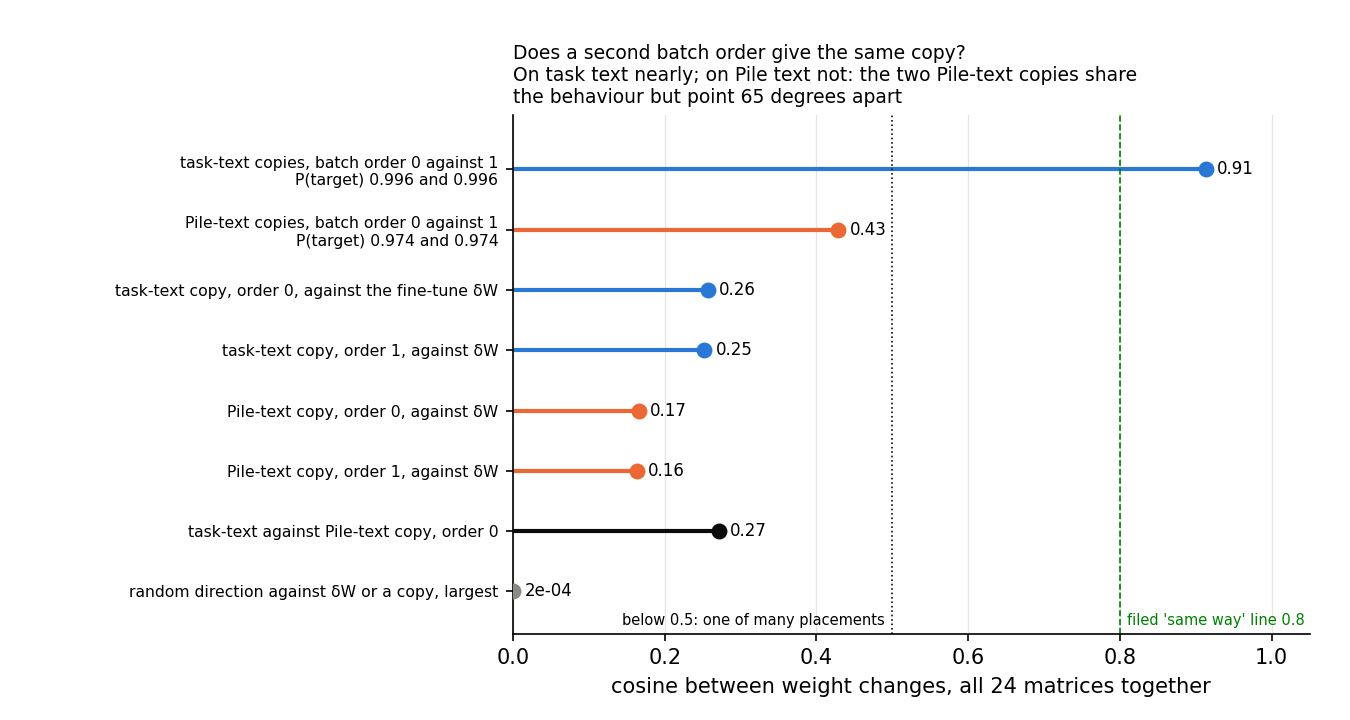
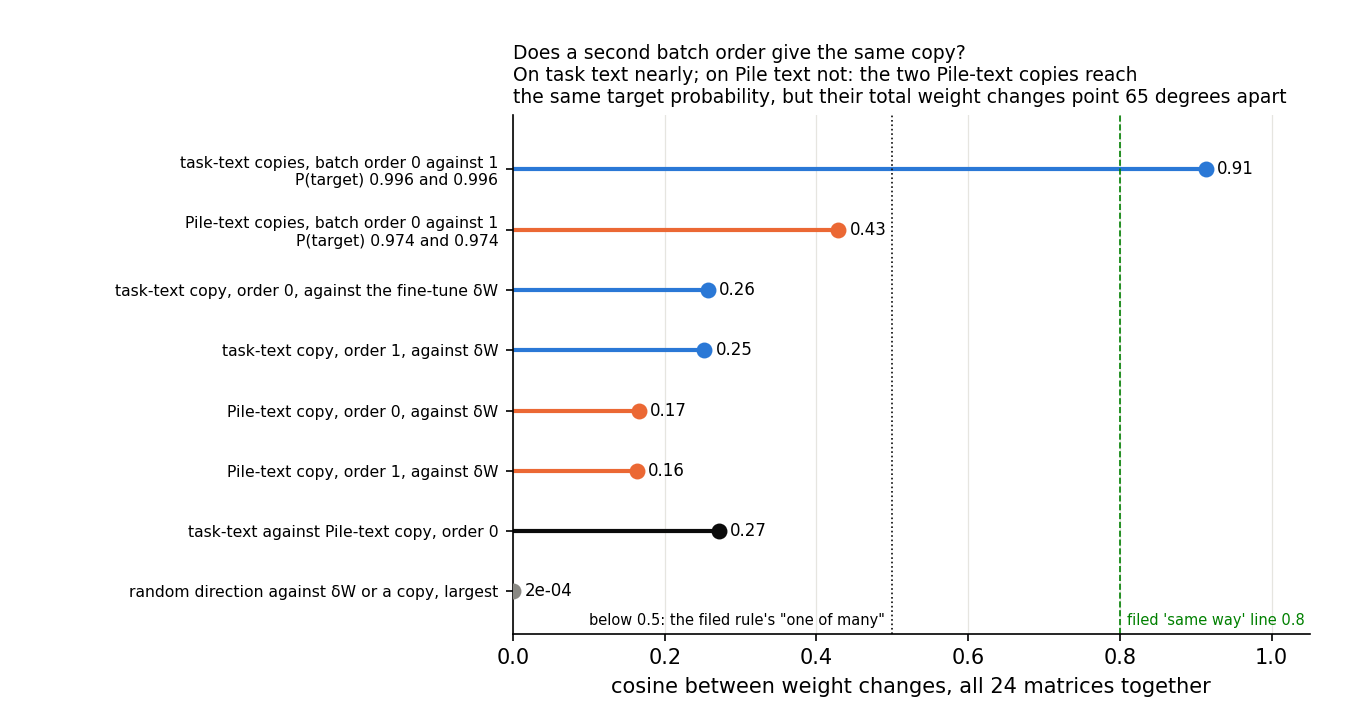
E34 Amendment 5 write-up corrected after the independent check; card decision-adversary-starts (Soon); decision-broad-copy run line updated

Changed region(s): [[0.4044, 0.0917, 0.9644, 0.1528], [0.4356, 0.8556, 0.6533, 0.8861]]

diff --git a/docs/research_log/parts/sections/decisions.html b/docs/research_log/parts/sections/decisions.html
@@ -2,13 +2,20 @@
 <div class="sechead"><div class="eyebrow">Waiting on the user</div><h2><span class="num"></span>Pending decisions</h2></div>
 <div class="prose"><p>Each card is one choice only the user can make: what it is about, what the evidence says, the options and what each one changes. The flag on each card says how pressing it is: <span class="chip refuted">Blocking</span> planned runs cannot go ahead without it; <span class="chip open">Soon</span> it decides one line's next step; <span class="chip uninf">No rush</span> worth settling at some point, nothing waits on it. Once a choice is made it leaves this section; the decision goes into <code>decisions.md</code> and the changelog.</p></div>
 <div class="cards stack">
-  <div class="card key decision" id="decision-broad-copy"><span class="chip refuted urgency">Blocking</span><div class="k">Commute line · new 2026-10-26</div><p class="small">Running: E34 Amendment 5 (why the two adversaries disagree). Nothing else runs on this line until this is decided.</p><h3>A copy of a broad fine-tune keeps its behaviour but fails the adversarial check: what next?</h3>
+  <div class="card key decision" id="decision-broad-copy"><span class="chip refuted urgency">Blocking</span><div class="k">Commute line · new 2026-10-26</div><p class="small">Nothing runs on the commute line until this is decided.</p><h3>A copy of a broad fine-tune keeps its behaviour but fails the adversarial check: what next?</h3>
   <p><strong>What it is about.</strong> Teacher training, retraining the subcomponents to imitate a fine-tuned model, is the commute line's working map and the plan for the larger model. Every copy so far was of a fine-tune that acts at one trigger token, and every copy passed. E37 copied a fine-tune that acts at every position: Pile text lowercased, with no trigger.</p>
   <p><strong>What the evidence says.</strong> One run, independently checked (<code>reports/reviews/2026-10-26_review_teacher-spread.md</code>). The copy keeps all of the fine-tune's gain on held-out lowercase text (0.998 of it) and its predictions sit close to the fine-tune's. Under the standard adversarial check it reads 2.20 times the original model, above the fail line of 1.61. A second batch order reads 1.88 and a copy trained on the same text with capitals kept reads 1.74. Leaving the update in Δ reads 4.87, but that reading is inflated by construction: the adversary may switch off Δ, which then holds the whole update. The scaled adjoint split keeps 0.80 of the gain and passes at 1.05, but it barely changes predictions on ordinary text, while the copies change them as much as the fine-tune does. Across these states the check rises with that change, so the copy may fail because its teacher changes ordinary text a lot, not because the copy is a poor map; this is untested. The copies were still learning: their training loss fell by 33 to 40% between steps 500 and 1000. Two batch orders land on nearly the same weight change (cosine 0.93).</p>
   <p><strong>The options.</strong> (a) The filed decision tree's own branch, and the cheapest: the copy is still learning, so train it three times longer (about $2), reading the check at several steps and two adversary seeds, before reading anything into the failure. (b) Judge the copy against leaving the update in Δ, option (b) of the anchor card below: it then passes, at 0.45 of do-nothing, but do-nothing's reading is inflated, so this rule flatters every map. (c) For broad updates, take the adjoint split as the map, or start the copy from it; it matches the fine-tune's predictions less closely. (d) If (a) leaves the failure standing, the tree's next step: test whether the frozen Γ (E15's refit, about $9) or the subcomponents' span limits the copy.</p>
   <p><strong>Why it matters.</strong> The larger model's post-trained update is broad, like this one. If teacher training is faithful only on trigger-like updates, the larger-model run needs a different map or a different pass rule.</p>
   <div class="links"><a href="#decision-pass-anchor">Anchor card</a><a href="#e34">E34</a></div>
   <p class="small">Plan <code>reports/plans/2026-10-26_plan_teacher-spread.md</code>; results <code>experiments/teacher_spread/results/teacher_spread.json</code>; analysis <code>reports/analyses/2026-10-26_analysis_teacher-spread.md</code>; notebook <code>notebooks/E37_teacher_spread.ipynb</code>; review <code>reports/reviews/2026-10-26_review_teacher-spread.md</code></p></div>
+  <div class="card key decision" id="decision-adversary-starts"><span class="chip open urgency">Soon</span><div class="k">Commute line · new 2026-10-26</div><p class="small">Nothing runs on this until it is decided.</p><h3>Should the adversarial check search from several random starts?</h3>
+  <p><strong>What it is about.</strong> The adversarial check searches for the masks on the subcomponents and Δ that most change the model's predictions on ordinary Pile text. It starts from one random setting of the masks and takes 20 small steps. The reading is the damage it finds over the unchanged model's, so 1 means no easier to break. A search that misses worse masks reads too low, so every reading is a lower bound.</p>
+  <p><strong>What the evidence says.</strong> E34 Amendment 5 read one fine-tune left in Δ on the same 128 rows from two random starts: 9.2 from one, 1.7 from the other. The rows, the arithmetic precision and eight times more steps changed little. The unchanged model read within 2.4% from either start. With two draws, which reading is typical is unknown. Amendment 4 had read six fine-tunes from the same two starts, on different rows: the other start read higher on five and lower on none. One of them, which the check passed at 1.12, read 2.09 there.</p>
+  <p><strong>The options.</strong> (a) First measure the spread over starts: eight starts each on the unchanged model, this fine-tune, an E34 copy, the E37 copy and the adjoint split, about $2 on an H100. (b) Make the check the worst of K starts, at K times the cost per reading, and re-read past verdicts. (c) Keep one start and report every reading as a lower bound.</p>
+  <p><strong>Why it matters.</strong> Every one-start "pass" and "inconclusive" since round 2 could be lenient on updates left in Δ, and the larger-model run will use this check. More starts can only raise a state's reading: E37's copy already fails from one start.</p>
+  <div class="links"><a href="#e34">E34</a><a href="#decision-pass-anchor">Anchor card</a><a href="#decision-broad-copy">Broad-copy card</a></div>
+  <p class="small">Analysis <code>reports/analyses/2026-10-23_analysis_teacher-training.md</code> (Amendment 5); review <code>reports/reviews/2026-10-26_review_teacher-training-amend5.md</code>; notebook <code>notebooks/E34_teacher_training.ipynb</code></p></div>
   <div class="card key decision" id="decision-cuefree"><span class="chip refuted urgency">Blocking</span><div class="k">Re-gating line · new 2026-10-26</div><p class="small">Nothing runs on the restatement until this is decided.</p><h3>Restate the fixed-shift hypothesis without cues?</h3>
   <p><strong>What it is about.</strong> The hypothesis says one fixed change to Γ's importance values per cue word carries the switching after a fine-tune. A cue is the trigger token of our toy tasks, and real post-training has none. Tonight's runs tested a form that names no token: each input or position gets the change of the training inputs the original model treats most alike.</p>
   <p><strong>What the evidence says.</strong> On the toy tasks it does as well as one change per cue added the same way, and the most similar inputs share the cue 62 to 71% of the time, against a predicted 90% (E35). On a fine-tune of lowercased text, with no trigger, it predicted Γ's change better than any other rule, but recovered 0.72 of the switching at step 10 and only 0.54 and 0.51 later, under the filed 0.6 (E36). That miss was sampling: with sixteen times as many fitted positions the rule recovers 0.89, 0.78 and 0.76, against our prediction that it would stay under 0.7, and restricting it to the same token adds nothing. The original model's attention inputs, which Γ reads, predict the change as well as Γ's values, while a summary of the last few tokens recovers about half: positions the original model treats alike get alike changes, more than positions that share their last few tokens. Whether a summary of the whole preceding text does as well is not yet tested. A fixed line per subcomponent fell to zero, against its filed lean. Switching carried 0.79 to 1.05 of the gain, but an update that learned nothing gave about 0.8 too, so that share is not evidence on its own.</p>

diff --git a/experiments/teacher_training/plot_amend5.py b/experiments/teacher_training/plot_amend5.py
@@ -116,14 +116,14 @@ def fig_cosines(res: Rec, pred: Rec, out: Path) -> None:
     ax.axvline(same, color="g", ls="--", lw=0.8)
     ax.axvline(many, color=INK, ls=":", lw=0.8)
     ax.text(same + 0.01, len(rows) - 0.4, f"filed 'same way' line {same}", fontsize=7, color="g", va="bottom")
-    ax.text(many - 0.01, len(rows) - 0.4, f"below {many}: one of many placements", fontsize=7, ha="right", va="bottom")
+    ax.text(many - 0.01, len(rows) - 0.4, f"below {many}: the filed rule's \"one of many\"", fontsize=7, ha="right", va="bottom")
     ax.set_yticks(range(len(rows)), [r[0] for r in rows], fontsize=7.5)
     ax.invert_yaxis()
     ax.set_xlim(0, 1.05)
     ax.set_ylim(len(rows) - 0.3, -0.9)
     ax.set_xlabel("cosine between weight changes, all 24 matrices together")
     ax.set_title("Does a second batch order give the same copy?\nOn task text nearly; on Pile text not: the two "
-                 "Pile-text copies share\nthe behaviour but point 65 degrees apart", fontsize=9, loc="left")
+                 "Pile-text copies reach\nthe same target probability, but their total weight changes point 65 degrees apart", fontsize=9, loc="left")
     ax.grid(True, axis="x", color=GRID, lw=0.6)
     ax.set_axisbelow(True)
     for s in ("top", "right"):

diff --git a/reports/analyses/2026-10-23_analysis_teacher-training.md b/reports/analyses/2026-10-23_analysis_teacher-training.md
@@ -15,8 +15,8 @@ rank-8 LoRA is copied as well from the task's text, but only partly from ordinar
 second batch order moves a copy's end state by at most 0.03, which makes Amendment 2's falls real, and that every copy
 stays at the unchanged model's level under an adversary eight times longer while five of the six fine-tunes do not.
 Amendment 5 adds that the two adversaries' six-fold disagreement on one fine-tune comes from their random starting
-points, so a one-start verdict on a fine-tune can be lenient, and that two Pile-text copies at two batch orders behave
-alike but point well apart.
+points, so a one-start verdict on a fine-tune can be lenient, and that two Pile-text copies at two batch orders reach
+the same target probability but point well apart.
 
 > **Something unexpected happened.** We predicted that a student trained only on ordinary Pile text would not learn
 > the emoticon behaviour, because its trigger is so rare there. It learnt it anyway: the held-out probability of the
@@ -1286,6 +1286,9 @@ task-text move in P(target) is 0.00501, which "at most 0.005" rounds down.
 
 ## Amendment 5 (2026-10-26): why the two adversaries disagree, and is a copy unique?
 
+*Independently checked 2026-10-26 (`reports/reviews/2026-10-26_review_teacher-training-amend5.md`); corrections
+applied.*
+
 *Design and filed predictions: `reports/plans/2026-10-23_plan_teacher-training.md` → "Amendment 5";
 `experiments/teacher_training/results/predictions_amend5.json`, filed 20:03:20, unedited. Every number below is read
 from `results/teacher_training_amend5.json` and its log `results/large/run_amend5.log`; the scoring is the run's own,
@@ -1296,16 +1299,17 @@ changing one difference between them at a time, and we retrained two copies of t
 order. The whole gap followed the adversary's random starting point, while the rows, the arithmetic precision and an
 eight times longer search changed little, and the unchanged model read nearly the same from either start. For
 `GOALS.md` this means a faithfulness verdict from one adversary start is a lower bound on the worst case and may be
-lenient, and that a copy trained on ordinary text is one of several weight changes with the same behaviour rather than
-a unique map.
+lenient, and that two copies trained on ordinary text can reach the same target probability by quite different weight
+changes.
 
 ### The answer
 
 The two adversaries disagree because they start from different random points. Rows, readout precision and step budget
 change little. On the r1 SGD fine-tune left in Δ, the budget code reads about 9 times the unchanged model from its own
 start. Started where the harness starts, it reads about 1.7, as the harness does. The unchanged model reads nearly the
-same from either start. So a one-start verdict on a fine-tune can understate the worst case several-fold.
-Separately, two Pile-text copies at two batch orders behave alike, but their weight changes point well apart.
+same from either start. With two starts we cannot say which reading is typical, but a one-start verdict on a fine-tune
+can understate the worst case several-fold. Separately, two Pile-text copies with the same target probability have
+weight changes that point well apart.
 
 ### What we were trying to test
 
@@ -1366,7 +1370,7 @@ ratio, before any variant was read.
   $W_0$ within 0.04 nats in Amendment 4.
 - **The two copies at two batch orders point the same way**, cosine at least 0.8 for both arms, at medium confidence.
   Their target probabilities moved by under 0.005 in Amendment 4, though nothing had read the weights. Below 0.5 on
-  either arm, by the filed rule, a copy is one of many weight changes with the same behaviour.
+  either arm, the filed rule reads "one of many": a copy is one of many weight changes that behave alike.
 
 ### What we observed
 
@@ -1374,7 +1378,7 @@ ratio, before any variant was read.
 
 ![amend5](../../experiments/teacher_training/figures/amend5.png)
 
-**Reading it.** The start carries all of it. The figure plots the KL each reading reaches on one log axis, hollow at
+**Reading it.** On these two draws, the start carries all of it. The figure plots the KL each reading reaches on one log axis, hollow at
 the unchanged model and filled at the teacher, grouped by the random start the search took. From the harness's start,
 every reading puts the teacher at 1.08 to 1.27 nats, 1.58 to 1.67 times the unchanged model. That holds whichever code
 runs the search, which rows it sees, which readout is used and how many steps it takes. From the budget code's start,
@@ -1411,7 +1415,8 @@ blocks; its ratio, 1.588, is that mean over $W_0$'s mean.
 points sit in a narrow band. At 20 steps on rows 1 to 128, $W_0$ reads 0.663 to 0.679 nats from either start, a
 spread of 2.4%. At the teacher the two starts differ by a factor of 5.4. Seven of the eight filed comparisons at $W_0$ agree
 within 4.3%. The one miss is at 160 steps, where the harness's start reads 0.786 nats and the budget code's 0.708.
-That is 11% apart, against the filed 10%. Those two readings differ only in the start. Amendment 4 had measured the
+That is 11% apart, against the filed 10%. Those two readings differ in the start, and in code and readout
+differences that the identity and readout checks put at 4% or less. Amendment 4 had measured the
 budget code's spread between two adversary seeds at 160 steps as 23%, so this miss sits inside known noise. At the
 teacher the same pair differs by a factor of 5.8.
 
@@ -1421,14 +1426,20 @@ teacher the same pair differs by a factor of 5.8.
 
 **Reading it.** Nearly, for the task-text copy; not for the Pile-text copy. The figure plots each cosine as a
 lollipop against the filed lines at 0.8 and 0.5. The two task-text copies have a cosine of 0.91, about 24 degrees
-apart. The two Pile-text copies have a cosine of 0.43, about 65 degrees apart, below the filed 0.5. By the filed rule
-a Pile-text copy is one of many weight changes with the same behaviour. Their behaviour is the same: held-out target
-probability 0.974 at both batch orders, and 0.996 for both task-text copies. Each Pile-text copy lines up with
-$\delta W$ to the same degree, 0.17 and 0.16, and each task-text copy 0.26 and 0.25. The task-text and Pile-text
-copies at batch order 0 have a cosine of 0.27. A random direction reads at most 0.0002 against any of them. The
-caveat: the cosine is on the total weight change, so two copies that spread the same change differently over the
-subcomponents would read 1. That blind spot can hide a difference, not create one, so 0.43 is an upper bound on how
-alike the two Pile-text placements are.
+apart. The two Pile-text copies have a cosine of 0.43, about 65 degrees apart, below the filed 0.5, which the filed
+rule reads as "one of many". Their target probability is the same: 0.974 at both batch orders, and 0.996 for both
+task-text copies. Nothing else about the copies' behaviour was read. Each Pile-text copy lines up with $\delta W$ to
+the same degree, 0.17 and 0.16, and each task-text copy 0.26 and 0.25. The task-text and Pile-text copies at batch
+order 0 have a cosine of 0.27. A random direction reads at most 0.0002 against any of them.
+
+The cosine has two blind spots, and they pull in opposite directions. It cannot see two copies that spread one total
+change differently over the subcomponents, which hides differences. It also weighs directions that change no
+behaviour the same as directions that carry it. The Pile-text copies train at batch 8, against 32 for the task-text
+copies, so seed-specific drift with no effect on behaviour could lower their cosine on its own. So 0.43 bounds how
+alike the two total weight changes are, not how alike the placements of the behaviour are. One untested fit is
+consistent with such drift. If each copy is a shared part plus independent seed noise, the Pile-text copies' shared
+part is about 0.65 of each copy's length. That shared part would line up with $\delta W$ at about 0.25, as the
+task-text copies' shared part does at about 0.27.
 
 | copy | batch order | P(target) at 100 | at 1000 | cosine with $\delta W$ |
 |---|---|---|---|---|
@@ -1452,11 +1463,20 @@ fine-tune left in Δ, one start finds masks that raise the KL to 6.1 nats and th
 longer search did not close that gap. Both are valid searches, so each reading is only a lower bound on the worst
 masks. A verdict from one start can therefore be lenient: the higher reading, 9.2, is far above every line, where the
 harness read it inconclusive at 1.59. The unchanged model barely noticed the start, so the
-sensitivity belongs to this state, not to the search alone. Which other verdicts it touches was not
-tested here. In E37 the two starts agreed on a broad fine-tune's do-nothing state, 3.91 against 3.92. The copies in
-Amendment 4 passed from both starts. For the larger model, a Pile-text copy is one of several weight changes
-with the same behaviour. Any claim about where such a copy puts the update needs two batch orders behind it. The
-task-text copy is close to unique.
+sensitivity belongs to this state, not to the search alone.
+
+Amendment 4's data already bear on other states. It read all six of its fine-tunes left in Δ through the harness and
+through the budget code, so from both starts. The budget code's start read higher on five and lower on none. The r0
+SGD fine-tune, which the harness passed at 1.12, read 2.09 there, above the budget code's pass line of 1.241. The r0
+Adam fine-tune, also passed, read 1.35 and 1.68. Two caveats: those readings also differ in rows, which moved the ratio
+by 10% here, and all six use the same pair of draws. So they cannot tell a weak harness draw from a wide spread over
+starts. Still, they make "one-start verdicts may be lenient" hold on more than one state, and it reaches a pass. In
+E37 the two starts agreed on a broad fine-tune's do-nothing state, 3.91 against 3.92, and Amendment 4's copies passed
+from both.
+
+For the larger model: two Pile-text copies with the same target probability have total weight changes at cosine 0.43,
+and whether that difference carries behaviour is untested. Any claim about where such a copy puts the update needs two
+batch orders behind it. The task-text copy is close to unique.
 
 ### How compelling is the evidence
 
@@ -1469,7 +1489,10 @@ task-text copy is close to unique.
 - **One teacher and one task for the copies**, one pair of batch orders per arm. E37's lowercase copies, trained on
   the teacher's own 2,400 rows rather than ordinary Pile text, read 0.93 between batch orders.
 - **What the cosine is blind to.** It cannot see two copies that spread the same total change differently over the
-  subcomponents, so it can only overstate how alike two copies are.
+  subcomponents, which overstates how alike they are. It weighs directions with no effect on behaviour like those
+  that carry it, which can understate how alike the behaviour's placements are.
+- **"Same behaviour" is one number.** Only held-out target probability was read on the copies; damage elsewhere and
+  the KL to the teacher on Pile were not.
 
 ### Surprises
 
@@ -1478,7 +1501,8 @@ task-text copy is close to unique.
   many"; the task-text pair read 0.91. Their target probabilities agree to 0.0004, and each lines up with the
   fine-tune equally. Why the Pile-text copies differ was not tested.
 - **Missed narrowly: at $W_0$ the harness at 160 steps read 11% above the budget code at 160 steps**, against the filed
-  10%. The two differ only in the start; Amendment 4's seed spread at 160 steps was 23%.
+  10%. They differ in the start; their code and readout differences read 4% or less. Amendment 4's seed spread at
+  160 steps was 23%.
 - **The random start, not the rows or the readout, carries a six-fold gap.** Amendment 4's report had suspected the
   rows or the readout. The same search reads one state at 1.6 or 9.2, depending on the random numbers each matrix
   starts from. A longer search did not bring the lower start up.
@@ -1492,8 +1516,9 @@ task-text copy is close to unique.
    if they move, they are re-read before the larger-model run uses the harness.
 2. **How many starts are needed.** Read $W_0$ and the r1 SGD teacher from about eight starts, to see whether 1.6 or 9.2
    is the typical reading. A wide spread at the teacher and a narrow one at $W_0$ would set the number of restarts.
-3. **The larger-model write-up states that a Pile-text copy is not unique.** A third batch order, or a per-matrix
-   cosine, would say whether the two copies differ everywhere or in a few matrices.
+3. **Whether the Pile-text copies' difference carries behaviour.** Per-matrix cosines and norms on the saved offsets,
+   on CPU, would say whether the two copies differ everywhere or in a few matrices. Until then the larger-model
+   write-up says two such copies can differ widely in their total weight change.
 
 ### Scorecard, Amendment 5
 
@@ -1502,7 +1527,7 @@ task-text copy is close to unique.
 | C1 | the unchanged model reads its known values | `faith_score.w0_check`, floor 0.075 within 5% | 0.0748 | pass |
 | G1 | the regenerated teacher reproduces E34 and Amendment 4 | P within 0.01 of 0.983, size within 0.002 of 0.0287, harness ratio within 0.01 of 1.588, budget ratio within 5% of 9.24 | 0.9834, 0.02875, 1.5884, 9.240 | pass |
 | P1 | the rows do not carry the gap | on the teacher, rows256 within 25% of budget and harness_b0 within 25% of harness | 10.19 against 9.24, +10%; 1.595 against 1.588, +0.4% | **holds** |
-| P2 | one difference in the code path carries it | budget.bf16 or start within 25% of the harness's or the budget's ratio | start 1.667, 5% from the harness's 1.588; budget.bf16 9.219, 0.2% from the budget's 9.240; both implicate the start | **holds** |
+| P2 | one difference in the code path carries it | budget.bf16 or start within 25% of the harness's or the budget's ratio | start 1.667, 5% from the harness's 1.588, points at the start; budget.bf16 9.219, 0.2% from the budget's 9.240, rules out the readout but, by the filed rule, could not have failed | **holds** on the start reading |
 | P3 | at $W_0$ every variant within 10% of its default | eight pairs, relative | seven within 4.3%; harness160_b0 0.786 against budget160 0.708, +11.1% | **fails**, narrowly |
 | P4 | the copies at two batch orders point the same way | cosine ≥ 0.8 on both arms; < 0.5 on either reads "one of many" | task text 0.913, Pile text 0.429 | **fails**: "one of many" |
 
@@ -1526,10 +1551,10 @@ the JSON.
 - More than two random starts on any state; adversary seeds past 0; other adversary families.
 - The harness at 160 steps on block 2; the budget code from the harness's start at 160 steps; the harness from the
   budget code's start, since the authors' function takes no initial sources.
-- Any other teacher or state under both starts, including the r0 teachers the harness passed and Amendment 4's budget
-  code read at 1.7 to 2.6.
+- Any other state from both starts on the same rows; Amendment 4 read its six fine-tunes from both starts, but on
+  different rows and with one pair of draws.
 - Harness or budget readings of the four copies; damage elsewhere and teacher gap of the copies.
-- A third batch order; per-matrix cosines; the Pile-text copies' cosine at step 100.
+- A third batch order; per-matrix cosines and norms; the Pile-text copies' cosine at step 100.
 
 ### Provenance, Amendment 5
 

diff --git a/experiments/TRIED.md b/experiments/TRIED.md
@@ -71,7 +71,7 @@ Codes E1–E13 are the ones the research log ("Update Decomposition", see `READM
 | E36 Amendment 5 | Does the model's view of the context matter, or only the text? (`experiments/regating_spread/amend5.py`, 2026-10-26; plan Amendment 7; report section "Amendment 5"; RunPod H100, 80 s, $0.85) | Nearest rule on 262,144 positions in hashed (token, offset) features of the current and 15 or 3 preceding tokens, seeded hashing, a positive control against the token rule | Text 0.53/0.54/0.50 (16 tokens), 0.56/0.52/0.49 (4) vs Γ's values 0.88/0.77/0.76; above the token rule (control passes); T1 and T2 as predicted | The change follows how the original model treats a position, not the text alone; the restatement goes to the user |
 | E36 Amendment 6 | Does a summary of the whole preceding text close the gap to the original values? (`experiments/regating_spread/amend6.py`, 2026-10-26; plan Amendment 8; report section "Amendment 6"; review `reports/reviews/2026-10-26_review_regating-spread-amend6.md`; RunPod H100 PCIe, 123 s) | Nearest rule on 262,144 positions in the 4-token text summary (reproduces Amendment 5), an inverse-frequency bag of every token from the row's start, and the bag joined with the 4-token summary; positive control: the joined space within 0.05 of the 4-token summary; recovery by position in the row | Step 300: joined 0.49, 4-token 0.51, bag alone −0.05, original values 0.76; T3 pass as predicted, T4 fail (−0.020 against +0.014 predicted); at positions 0-31 joined 0.48 vs original values 0.74 | The bag carried no signal (the level of random groups), so the null was not a working whole-prefix summary: the restatement stands as worded by the filed tree, but context length is untested beyond row starts; order-keeping whole-prefix summary and the clip edge for the original values are open |
 | E37 | Teacher training of a fine-tune with no trigger (`experiments/teacher_spread`, `src/commute/row_copy.py`, 2026-10-26; plan `reports/plans/2026-10-26_plan_teacher-spread.md`; analysis `reports/analyses/2026-10-26_analysis_teacher-spread.md`, notebook `notebooks/E37_teacher_spread.ipynb`, figures `figures/{behaviour_faithful,adversaries,placement}.png`; RunPod H100 80GB HBM3, job 20:22-20:36, about 21 min and $1.40) | Teacher = E36 Amendment 1's lowercase fine-tune regenerated (all 24 matrices, Adam 3e-5, 300 steps, held-out gain 0.130 nats/token). States read at every position of 64 held-out rows: W₀, do-nothing, scaled adjoint split, teacher-training copies (E34's Pile-text recipe, Adam 1e-5, batch 8, 1000 steps) on the teacher's 2,400 lowercase rows at batch orders 0 and 1 and on the same documents not lowercased. Behaviour kept s, gap share KL(teacher ‖ state)/W₀'s, damage KL(W₀ ‖ state) on plain Pile, the 20-step Pile harness (pass ≤ 1.40, fail ≥ 1.61 on the H100's floor 0.0748), the budget adversary (reported), cosines between weight changes | C1-C3 pass (floor 0.0748; gain 0.1300; do-nothing = teacher exactly). Lowercase copy: s 0.998, gap share 0.044, damage 0.996 of the teacher's (P1, P2, P4 hold) but harness PGD 2.20, fail (**P3 reversed**); order 1 1.88, plain-text copy 1.74 (s 0.919, P6 holds), all fail; do-nothing 4.87, so copies read 0.36-0.45 of do-nothing. Adjoint split s 0.804 (**P5 reversed**), gap share 0.41, damage 0.21, harness 1.05 pass. Budget adversary: do-nothing 3.92, copy 1.80, plain 1.66, adjoint 1.17 (line 1.241). Cosine between batch orders 0.93 (P7 holds), lowercase vs plain copy 0.81, each copy vs δW 0.44 (plain 0.40; E34 0.08-0.29), adjoint 0.42. Copies' train KL still falling 33-40% from steps 451-500 to 951-1000; size 0.036 vs teacher 0.049 | Teacher training copies a broad update's behaviour and side effects but is not faithful by the fixed line, under two adversaries, two batch orders and two texts; it still beats do-nothing by about half. The adjoint split keeps most of a broad gain and passes while matching the teacher's predictions less. No cause tested. Blocking card `decision-broad-copy`: train longer, judge against do-nothing, adjoint as map or start, or E15's Γ refit. One teacher, one step, one adversary seed per state, synthetic style, 67M |
-| E34 Amendment 5 | Why do the harness and the budget adversary read the r1 SGD teacher six times apart, and is a copy unique? (`experiments/teacher_training/amend5.py`, 2026-10-26; plan `reports/plans/2026-10-23_plan_teacher-training.md` → "Amendment 5"; analysis `reports/analyses/2026-10-23_analysis_teacher-training.md` → "Amendment 5", notebook `notebooks/E34_teacher_training.ipynb`, figures `figures/amend5{,_cos}.png`, `plot_amend5.py`; RunPod H100 80GB HBM3, pod 01M5WYADKPDN6TRMBFYD0KRBV3, run 20:28-20:52, pod idle to 21:34 at a runner permission prompt; $5.82 with E37) | r1 SGD teacher regenerated (seed 0, step 1000). Part 1: the harness (`faithfulness.harness_pgd`) and the budget code (`gamma.pgd_sources` + `cancel.masked_kl`) at W₀ and the do-nothing state, adversary seed 0, one difference changed per reading: rows (block 1 alone, 256 rows in one search), readout (bf16 own objective vs fp32 forward), start (the budget code from `gamma.harness_start`), budget (160 steps of 2/160); identity and zero-step checks. Part 2: task-text and Pile-text copies at batch orders 0 and 1, cosines of the weight changes | C1, G1 pass (floor 0.0748; harness 1.588, budget 9.240). The random start carries the whole gap: from the harness's start every reading 1.58-1.67 (budget code 1.667), from the budget code's start 9.22-10.45 (readout 9.219, 256 rows 10.19, 160 steps 10.45; harness at 160 1.615). P1, P2 hold (both implicate the start); identity 0.996 / 1.040, zero-step 4e-8. W₀ within 2.4% across starts at 20 steps; P3 fails narrowly (harness vs budget at 160 steps on W₀ 0.786 vs 0.708, +11%). **P4 reversed**: seed cosine task text 0.913, Pile text 0.429 ("one of many") with P(target) 0.974 at both; each copy vs δW 0.25 (task), 0.16-0.17 (Pile); A vs B 0.27; null ≤ 2e-4 | Two equally random starts of one search read one fine-tune left in Δ at 1.6 and 9.2, so one-start verdicts are lower bounds that may be lenient; restarts / max over starts go to the user (pending card candidate). A Pile-text copy is one of several placements; the larger-model write-up says so. Two starts, one seed, one state |
+| E34 Amendment 5 | Why do the harness and the budget adversary read the r1 SGD teacher six times apart, and is a copy unique? (`experiments/teacher_training/amend5.py`, 2026-10-26; plan `reports/plans/2026-10-23_plan_teacher-training.md` → "Amendment 5"; analysis `reports/analyses/2026-10-23_analysis_teacher-training.md` → "Amendment 5", notebook `notebooks/E34_teacher_training.ipynb`, review `reports/reviews/2026-10-26_review_teacher-training-amend5.md` (corrections applied), figures `figures/amend5{,_cos}.png`, `plot_amend5.py`; RunPod H100 80GB HBM3, pod 01M5WYADKPDN6TRMBFYD0KRBV3, run 20:28-20:52, pod idle to 21:34 at a runner permission prompt; $5.82 with E37) | r1 SGD teacher regenerated (seed 0, step 1000). Part 1: the harness (`faithfulness.harness_pgd`) and the budget code (`gamma.pgd_sources` + `cancel.masked_kl`) at W₀ and the do-nothing state, adversary seed 0, one difference changed per reading: rows (block 1 alone, 256 rows in one search), readout (bf16 own objective vs fp32 forward), start (the budget code from `gamma.harness_start`), budget (160 steps of 2/160); identity and zero-step checks. Part 2: task-text and Pile-text copies at batch orders 0 and 1, cosines of the weight changes | C1, G1 pass (floor 0.0748; harness 1.588, budget 9.240). The random start carries the whole gap: from the harness's start every reading 1.58-1.67 (budget code 1.667), from the budget code's start 9.22-10.45 (readout 9.219, 256 rows 10.19, 160 steps 10.45; harness at 160 1.615). P1 holds; P2 holds on the start reading (budget.bf16 9.219 only rules out the readout; by the filed rule it could not fail); identity 0.996 / 1.040, zero-step 4e-8. W₀ within 2.4% across starts at 20 steps; P3 fails narrowly (harness vs budget at 160 steps on W₀ 0.786 vs 0.708, +11%; they differ in the start plus code/readout differences of ≤ 4%). **P4 reversed**: seed cosine task text 0.913, Pile text 0.429 ("one of many") with P(target) 0.974 at both; each copy vs δW 0.25 (task), 0.16-0.17 (Pile); A vs B 0.27; null ≤ 2e-4 | Two equally random starts of one search read one fine-tune left in Δ at 1.6 and 9.2, so one-start verdicts are lower bounds that may be lenient (on two draws; which is typical is unknown). A4 data agree on more states: its six fine-tunes in Δ read higher from the budget code's start on 5 of 6, lower on none, incl. the r0 SGD harness pass 1.12 → 2.09 (caveats: different rows, one pair of draws); restarts / max over starts go to the user (pending card candidate). Two Pile-text copies with the same target probability (the only behaviour read) have total weight changes at cos 0.43; the cosine also counts behaviour-free seed drift (arm B batch 8), so it bounds the total changes, not where the behaviour sits; whether the difference carries behaviour is untested (next: per-matrix cosines and norms on CPU). The larger-model write-up says so. Two starts, one seed, one state |
 
 ## Proposed and dropped
 

diff --git a/docs/research_log/PENDING.md b/docs/research_log/PENDING.md
@@ -9,3 +9,4 @@ this list empty. Recipe: `README.md` → "Batched updates".
 - 2026-10-26 · reports/analyses/2026-10-26_analysis_regating-spread.md (Amendment 6), notebooks/E36_regating_spread.ipynb, reports/reviews/2026-10-26_review_regating-spread-amend6.md · E36 card, Q5 / decision-cuefree "Running" line, timeline · E36 A6 done: a bag of the whole preceding text added nothing to the last four tokens (joined 0.49 vs 4-token 0.51 vs original values 0.76 at step 300; T4 missed, T3 held as predicted); the bag alone scored like random groups, so the null was not a working whole-prefix summary and context length stays untested beyond row starts (positions 0-31: 0.48 vs 0.74); restatement stands as worded per the filed tree; open threats: clip edge for the original values, tied text neighbours, no order-keeping whole-prefix summary
 - 2026-10-26 · reports/analyses/2026-10-26_analysis_teacher-spread.md, notebooks/E37_teacher_spread.ipynb, experiments/TRIED.md (E37 row) · new E37 card (experiments page), claims table, Q1 / commute-line status, timeline, decision-broad-copy evidence line ("analysis to follow" → the report; "plain adjoint split" → "scaled adjoint split") · E37 written up: the lowercase copy keeps the behaviour (0.998, gap share 0.04, damage as the teacher) but fails the harness at 2.20 (order 1 1.88, plain-text copy 1.74; fail line 1.61) and the budget adversary (1.80, 1.66; line 1.241), at 0.36-0.45 of do-nothing (4.87); P3 and P5 reversed (adjoint keeps 0.80, gap share 0.41, passes 1.05); one placement (cosine 0.93, vs δW 0.44); copies still learning (train KL -33 to -40%); no cause tested
 - 2026-10-26 · reports/analyses/2026-10-23_analysis_teacher-training.md (Amendment 5), notebooks/E34_teacher_training.ipynb (new), experiments/teacher_training/figures/amend5{,_cos}.png, experiments/TRIED.md (E34 Amendment 5 row) · E34 card (Amendment 5 result), claims table, timeline; Pending decisions: new card candidate "adversary restarts" · E34 A5: the harness/budget disagreement on the r1 SGD teacher (1.59 vs 9.24) is the adversary's random start alone (budget code from the harness's start 1.67; rows, readout and 160 steps change little; W₀ within 2.4% across starts), so one-start verdicts on a fine-tune are lower bounds that may be lenient; P4 reversed: Pile-text copies at two batch orders cos 0.43 (task text 0.91), a Pile-text copy is one of several placements. Card candidate for the user: read every verdict as the max over several random starts (cost one search per start, ~25 s per block on an H100), and re-read the passes/inconclusives that rest on one start
+- 2026-10-26 · docs/research_log/parts/sections/decisions.html (new card decision-adversary-starts, Soon, already written after decision-broad-copy), reports/reviews/2026-10-26_review_teacher-training-amend5.md (corrections applied to the A5 report section, notebook, cosine figure title, TRIED row) · Pending decisions (new card); E34 card wording for A5 (P2 holds on the start reading only; 0.43 bounds total weight changes, not where the behaviour sits; "same target probability", not "same behaviour"; A4's six fine-tunes read higher from the other start on 5 of 6, caveats: different rows, one pair of draws) · Should the adversarial check search from several random starts? Options: (a) measure the spread, 8 starts on W₀, r1 SGD teacher, an E34 copy, the E37 copy, the adjoint split, ~$2 H100; (b) max over K starts and re-read past verdicts; (c) keep one start, report as a lower bound. decision-broad-copy's "Running: E34 Amendment 5" line is now stale (A5 finished)
